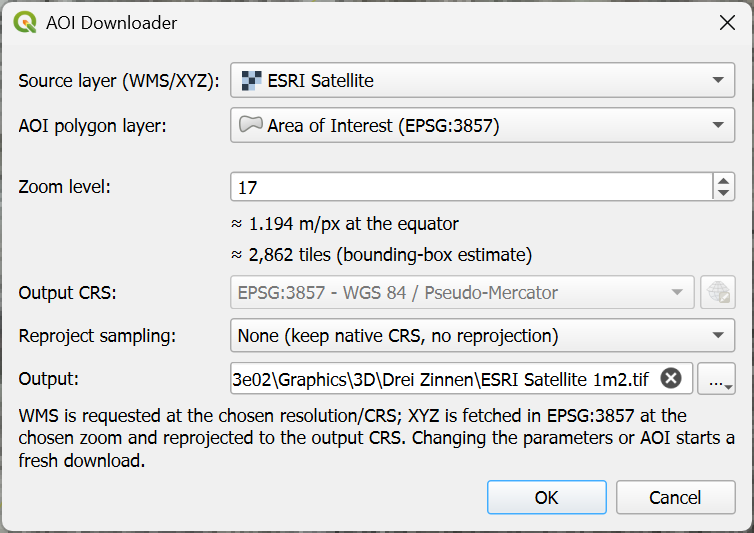
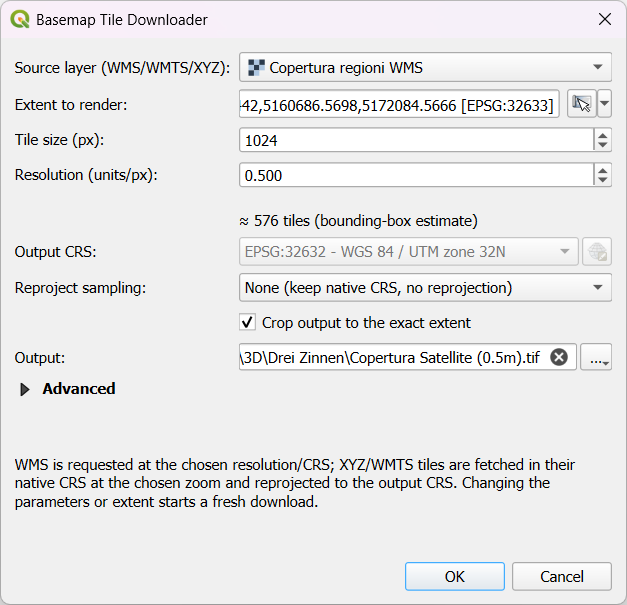
Release 1.2.0; point URLs at renamed repo; update dialog screenshot

Changed region(s): [[0.0, 0.0, 1.0, 1.0]]

diff --git a/CHANGELOG.md b/CHANGELOG.md
@@ -4,9 +4,12 @@ All notable changes to this project are documented here.
 The format is based on [Keep a Changelog](https://keepachangelog.com/).
 
 ## [Unreleased]
+
+## [1.2.0] - 2026-07-01
 ### Changed
 - **Renamed the plugin to "Basemap Tile Downloader"** (menu, metadata, log tab).
-  The Python package and repository names are unchanged.
+  The Python package folder (`aoi_downloader`) is unchanged; the repository was
+  renamed to `Basemap-Tile-Downloader`.
 - **The download area is now a rectangular extent instead of an AOI polygon
   layer.** The dialog uses an extent selector (Calculate from Layer / Use
   Current Map Canvas Extent / Draw on Canvas), like QGIS's "Convert Map to

diff --git a/README.md b/README.md
@@ -1,6 +1,6 @@
 # Basemap Tile Downloader for QGIS
 
-[![CI](https://github.com/cvonk/AOI-Downloader-for-QGIS/actions/workflows/ci.yml/badge.svg)](https://github.com/cvonk/AOI-Downloader-for-QGIS/actions/workflows/ci.yml)
+[![CI](https://github.com/cvonk/Basemap-Tile-Downloader/actions/workflows/ci.yml/badge.svg)](https://github.com/cvonk/Basemap-Tile-Downloader/actions/workflows/ci.yml)
 
 A QGIS plugin that exports a high-resolution GeoTIFF from a **WMS**, **WMTS**, or
 **XYZ** basemap over a chosen rectangular extent.